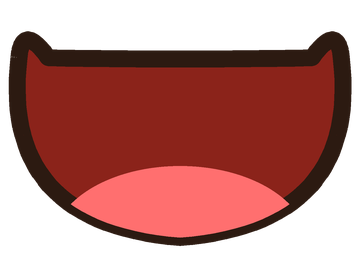
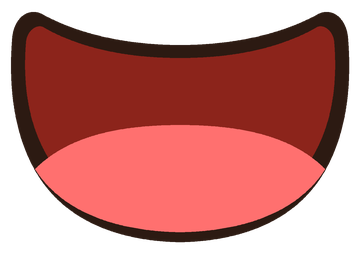
Smooth the open mouth artwork

Changed region(s): [[0.0, 0.0308, 0.9778, 0.9538]]

diff --git a/src/character/face-renderer.ts b/src/character/face-renderer.ts
@@ -346,12 +346,14 @@ export class FaceRenderer {
     ctx.strokeStyle = brown;
     ctx.fillStyle = '#8c241b';
     ctx.beginPath();
-    ctx.moveTo(cx - width, cy - height * 0.55);
-    ctx.quadraticCurveTo(cx - width * 0.98, cy - height * 0.78, cx - width * 0.82, cy - height * 0.53);
-    ctx.quadraticCurveTo(cx, cy - height * 0.14, cx + width * 0.82, cy - height * 0.53);
-    ctx.quadraticCurveTo(cx + width * 0.98, cy - height * 0.78, cx + width, cy - height * 0.55);
-    ctx.quadraticCurveTo(cx + width * 1.12, cy + height * 0.72, cx, cy + height);
-    ctx.quadraticCurveTo(cx - width * 1.12, cy + height * 0.72, cx - width, cy - height * 0.55);
+    ctx.moveTo(cx - width, cy - height * 0.82);
+    ctx.bezierCurveTo(cx - width * 1.09, cy - height * 0.99, cx - width * 0.93, cy - height * 1.01, cx - width * 0.82, cy - height * 0.82);
+    ctx.bezierCurveTo(cx - width * 0.51, cy - height * 0.53, cx - width * 0.22, cy - height * 0.43, cx, cy - height * 0.43);
+    ctx.bezierCurveTo(cx + width * 0.22, cy - height * 0.43, cx + width * 0.51, cy - height * 0.53, cx + width * 0.82, cy - height * 0.82);
+    ctx.bezierCurveTo(cx + width * 0.93, cy - height * 1.01, cx + width * 1.09, cy - height * 0.99, cx + width, cy - height * 0.82);
+    ctx.bezierCurveTo(cx + width * 1.08, cy - height * 0.24, cx + width * 0.89, cy + height * 0.54, cx + width * 0.57, cy + height * 0.79);
+    ctx.bezierCurveTo(cx + width * 0.29, cy + height, cx - width * 0.29, cy + height, cx - width * 0.57, cy + height * 0.79);
+    ctx.bezierCurveTo(cx - width * 0.89, cy + height * 0.54, cx - width * 1.08, cy - height * 0.24, cx - width, cy - height * 0.82);
     ctx.closePath();
     ctx.fill();
     ctx.stroke();
@@ -361,7 +363,12 @@ export class FaceRenderer {
       ctx.clip();
       ctx.fillStyle = '#ff706f';
       ctx.beginPath();
-      ctx.ellipse(cx, cy + height * 0.9, width * 0.78, height * 0.55, 0, Math.PI, Math.PI * 2);
+      ctx.beginPath();
+      ctx.moveTo(cx - width * 0.83, cy + height * 0.47);
+      ctx.bezierCurveTo(cx - width * 0.53, cy + height * 0.11, cx - width * 0.21, cy + height * 0.03, cx, cy + height * 0.03);
+      ctx.bezierCurveTo(cx + width * 0.21, cy + height * 0.03, cx + width * 0.53, cy + height * 0.11, cx + width * 0.83, cy + height * 0.47);
+      ctx.bezierCurveTo(cx + width * 0.61, cy + height * 0.84, cx + width * 0.29, cy + height * 0.96, cx, cy + height * 0.96);
+      ctx.bezierCurveTo(cx - width * 0.29, cy + height * 0.96, cx - width * 0.61, cy + height * 0.84, cx - width * 0.83, cy + height * 0.47);
       ctx.fill();
       ctx.restore();
     }
